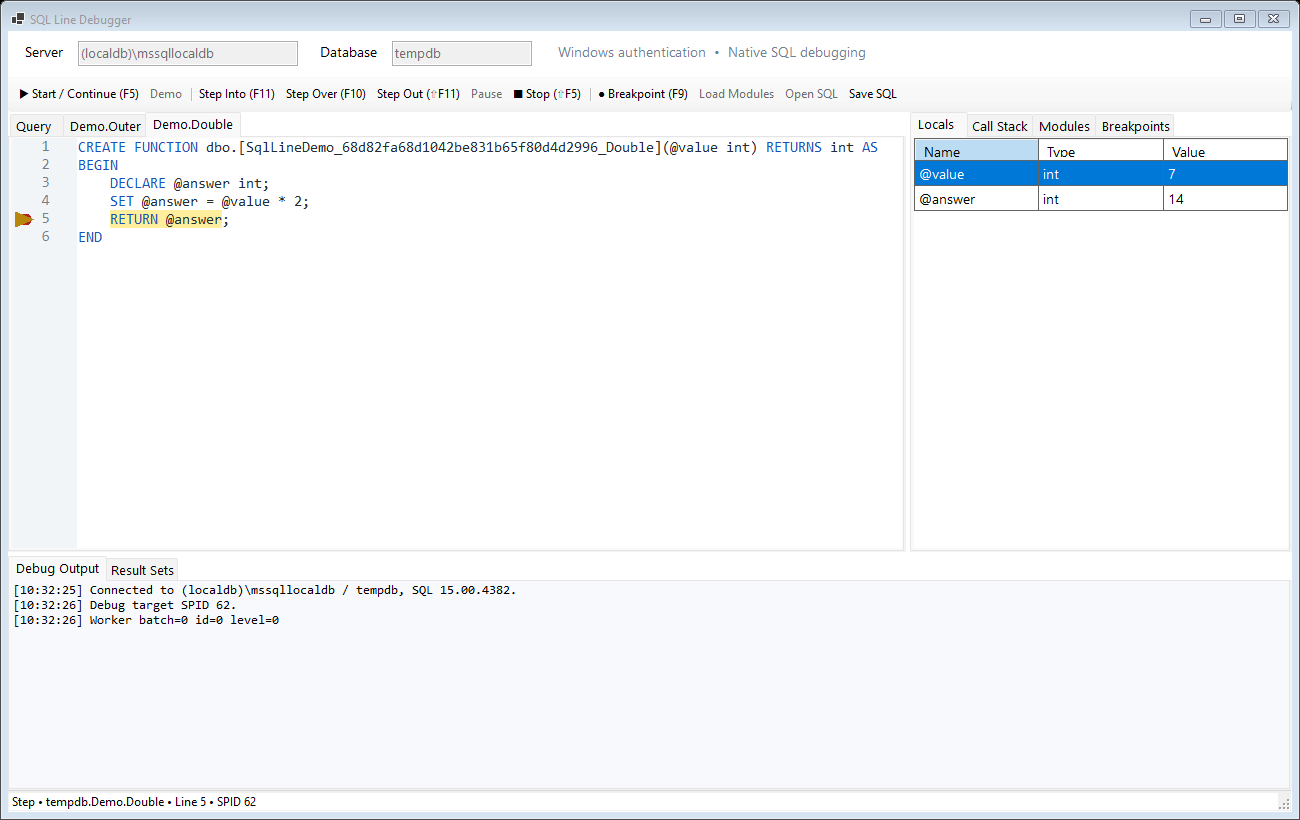
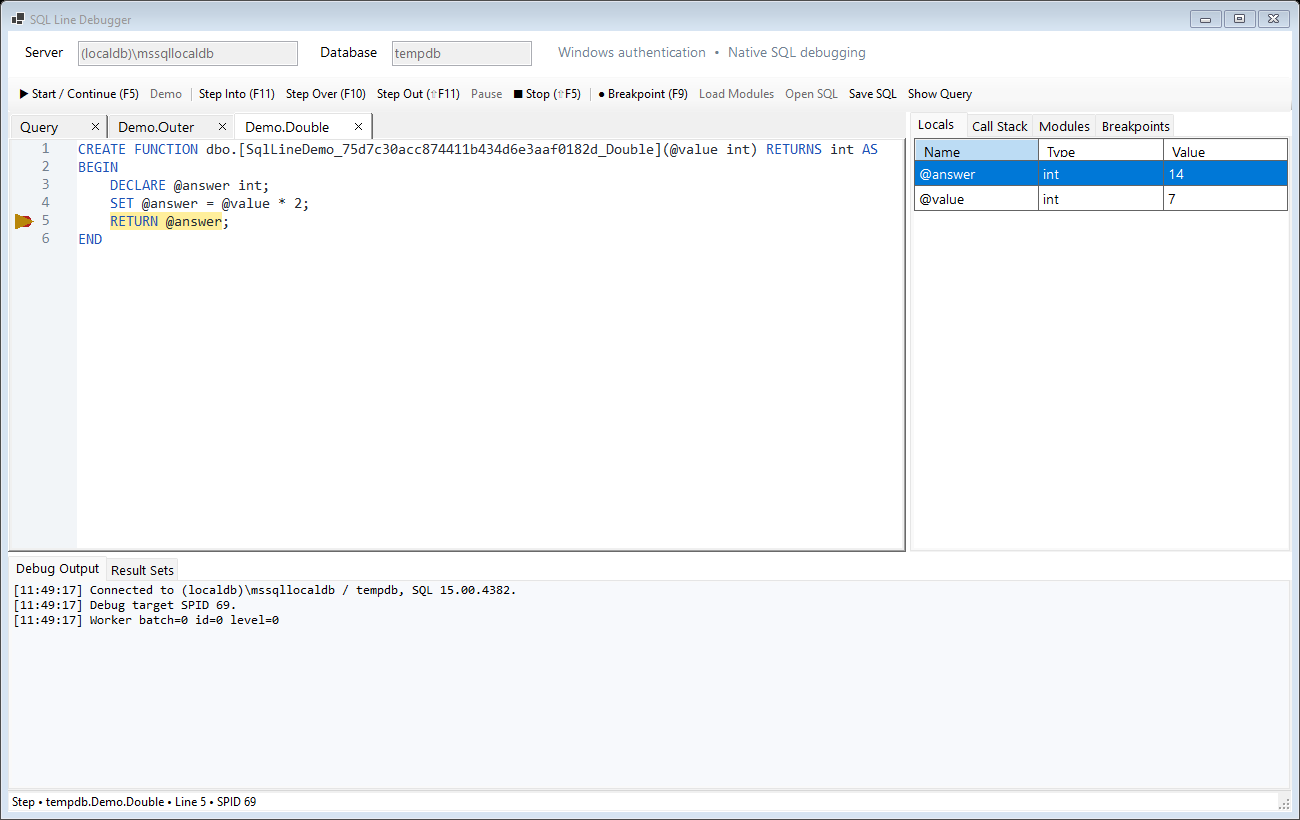
updates

diff --git a/src/SqlLineDebugger/MainForm.cs b/src/SqlLineDebugger/MainForm.cs
@@ -7,7 +7,7 @@ internal sealed class MainForm : Form
 {
     private readonly TextBox server = new() { Text = @"(localdb)\mssqllocaldb", Width = 220 };
     private readonly TextBox database = new() { Text = "tempdb", Width = 140 };
-    private readonly TabControl sourceTabs = new() { Dock = DockStyle.Fill };
+    private readonly ClosableTabControl sourceTabs = new() { Dock = DockStyle.Fill };
     private readonly TabControl bottomTabs = new() { Dock = DockStyle.Fill };
     private readonly TabControl resultTabs = new() { Dock = DockStyle.Fill };
     private readonly RichTextBox output = new() { Dock = DockStyle.Fill, ReadOnly = true, Font = new Font("Consolas", 10), BackColor = Color.FromArgb(247, 249, 252), BorderStyle = BorderStyle.None };
@@ -21,6 +21,7 @@ internal sealed class MainForm : Form
     private readonly Dictionary<string, SqlEditor> editors = new();
     private readonly SqlEditor query;
     private DebugSession? session;
+    private PauseSnapshot? currentPause;
     private bool closing;
     private bool loadingModules;
     private string? smokeDirectory;
@@ -51,6 +52,7 @@ internal sealed class MainForm : Form
         AddButton(ref loadButton, "Load Modules", async () => await LoadModules());
         AddButton(ref openButton, "Open SQL", OpenSql);
         var save = new ToolStripButton("Save SQL"); save.Click += (_, _) => SaveSql(); toolstrip.Items.Add(save);
+        var showQuery = new ToolStripButton("Show Query"); showQuery.Click += (_, _) => ShowQuery(); toolstrip.Items.Add(showQuery);
 
         var vertical = new SplitContainer { Dock = DockStyle.Fill, Orientation = Orientation.Horizontal, Height = 710, SplitterDistance = 430, Panel1MinSize = 180, Panel2MinSize = 160 };
         var horizontal = new SplitContainer { Dock = DockStyle.Fill, Width = 1260, SplitterDistance = 850, Panel1MinSize = 500, Panel2MinSize = 260 };
@@ -65,12 +67,15 @@ internal sealed class MainForm : Form
         toolstrip.Dock = DockStyle.Top;
         query = new SqlEditor(new("batch", "Query", "tempdb", "-- Enter a single batch, or click Demo.\nDECLARE @value int = 7;\nSET @value = @value * 2;\nPRINT N'Hello from SQL Server';\nSELECT @value AS Value;", Array.Empty<StatementSpan>()), breakpoints, true);
         AddEditor(query);
+        sourceTabs.CloseRequested += CloseSourceTab;
         modules.DoubleClick += (_, _) => { if (modules.SelectedItem is SourceDocument source) ShowSource(source); };
-        stack.DoubleClick += (_, _) => { if (stack.SelectedItem is FrameItem item) ShowSource(item.Frame.Source); };
+        stack.MouseDown += (_, e) => { if (e.Button == MouseButtons.Left) OpenStackFrame(stack.IndexFromPoint(e.Location)); };
+        stack.KeyDown += (_, e) => { if (e.KeyCode == Keys.Enter) { OpenStackFrame(stack.SelectedIndex); e.Handled = true; } };
         KeyPreview = true;
         KeyDown += async (_, e) =>
         {
-            if (e.KeyCode == Keys.F9) ActiveEditor?.ToggleAtCaret();
+            if (e.Control && e.KeyCode == Keys.W) { if (sourceTabs.SelectedTab is { } page) CloseSourceTab(page); }
+            else if (e.KeyCode == Keys.F9) ActiveEditor?.ToggleAtCaret();
             else if (e.KeyCode == Keys.F5 && e.Shift) Stop();
             else if (e.KeyCode == Keys.F5) { if (session?.IsRunning == true) session.Resume(DebugAction.Continue); else await Start(false); }
             else if (e.KeyCode == Keys.F10) session?.Resume(DebugAction.Over);
@@ -95,9 +100,29 @@ internal sealed class MainForm : Form
         editor.BreakpointsChanged += UpdateBreakpoints;
         sourceTabs.TabPages.Add(Page(editor.Source.DisplayName, editor));
     }
+    private void CloseSourceTab(TabPage page)
+    {
+        if (page.Controls.OfType<SqlEditor>().FirstOrDefault() is not { } editor) return;
+        editors.Remove(editor.Source.Key);
+        editor.BreakpointsChanged -= UpdateBreakpoints;
+        // Retain the editable batch even when its tab is closed.
+        if (editor == query) page.Controls.Remove(query);
+        sourceTabs.TabPages.Remove(page);
+        page.Dispose();
+    }
+    private void OpenStackFrame(int index)
+    {
+        if (index >= 0 && index < stack.Items.Count && stack.Items[index] is FrameItem item)
+            ShowSource(item.Frame.Source);
+    }
     private SqlEditor ShowSource(SourceDocument source)
     {
-        if (!editors.TryGetValue(source.Key, out var editor)) { editor = new SqlEditor(source, breakpoints); AddEditor(editor); }
+        if (!editors.TryGetValue(source.Key, out var editor))
+        {
+            editor = source.Key == "batch" ? query : new SqlEditor(source, breakpoints);
+            if (editor == query && editor.Source.Hash != source.Hash) editor.LoadSource(source);
+            AddEditor(editor);
+        }
         else if (editor.Source.Hash != source.Hash)
         {
             if (breakpoints.All.Any(b => b.SourceKey == source.Key)) Log($"Source changed: {source.Name}. Old breakpoints are unbound; reset them against the new source.");
@@ -105,6 +130,8 @@ internal sealed class MainForm : Form
         }
         else if (editor != query) editor.LoadSource(source);
         sourceTabs.SelectedTab = sourceTabs.TabPages.Cast<TabPage>().First(p => p.Controls.Contains(editor));
+        if (session?.IsPaused == true && currentPause is { } pause && pause.Source.Key == source.Key)
+            editor.Highlight(pause.Span);
         return editor;
     }
     private void UpdateBreakpoints()
@@ -130,6 +157,7 @@ internal sealed class MainForm : Form
     {
         if (session?.IsRunning == true || loadingModules) return;
         lastError = null;
+        currentPause = null;
         resultTabs.TabPages.Clear(); output.Clear(); locals.DataSource = null; stack.Items.Clear();
         query.RefreshQuery(); query.TextBox.ReadOnly = true;
         session?.Dispose();
@@ -141,7 +169,7 @@ internal sealed class MainForm : Form
             if (demo && source.Database == "tempdb" && source.Key != "batch" && !modules.Items.Cast<SourceDocument>().Any(s => s.Key == source.Key)) modules.Items.Add(source);
         });
         session.ResultSet += table => Dispatch(() => { var grid = Grid(); grid.DataSource = table; resultTabs.TabPages.Add(Page(table.TableName, grid)); });
-        session.Running += () => Dispatch(() => { status.Text = "Running…"; UpdateState(); });
+        session.Running += () => Dispatch(() => { currentPause = null; status.Text = "Running…"; UpdateState(); });
         session.Paused += snapshot => Dispatch(() =>
         {
             if (pendingStep != 0) { stepTimes.Add(Stopwatch.GetElapsedTime(pendingStep).TotalMilliseconds); pendingStep = 0; }
@@ -151,16 +179,29 @@ internal sealed class MainForm : Form
             DebugTrace.Write("UI clear highlights end");
             active.Highlight(snapshot.Span);
             DebugTrace.Write("UI show/highlight source end");
-            locals.DataSource = snapshot.Variables.Select(v => new { v.Name, v.Type, v.Value }).ToList();
+            locals.DataSource = snapshot.Variables.OrderBy(v => v.Name, StringComparer.OrdinalIgnoreCase)
+                .Select(v => new { v.Name, v.Type, v.Value }).ToList();
             stack.Items.Clear(); foreach (var frame in snapshot.Stack) stack.Items.Add(new FrameItem(frame));
             status.Text = $"{snapshot.Reason} • {snapshot.Source.Database}.{snapshot.Source.DisplayName} • Line {snapshot.Line} • SPID {snapshot.Spid}";
             UpdateState();
             DebugTrace.Write("UI pause display complete");
+            currentPause = snapshot;
             if (smokeDirectory != null)
             {
+                if (snapshot.Source.Name.EndsWith("_Outer", StringComparison.Ordinal) && snapshot.Line == 4)
+                {
+                    int caret = active.TextBox.SelectionStart;
+                    int nextLine = active.TextBox.GetFirstCharIndexFromLine(4);
+                    active.TextBox.Select(nextLine, 1);
+                    if (active.TextBox.SelectionBackColor != Color.White)
+                        throw new InvalidOperationException("DECLARE marker spills into the following line.");
+                    active.TextBox.Select(caret, 0);
+                    SavePreview(Path.Combine(smokeDirectory, "debugger-statement-marker.png"));
+                }
                 if (!smokeCaptured && snapshot.Variables.Any(v => v.Name == "@answer" && v.Value == "14"))
                 {
                     active.ToggleAtCaret(); UpdateBreakpoints();
+                    CheckTabNavigation(snapshot);
                     DebugTrace.Write("UI preview begin");
                     SavePreview(Path.Combine(smokeDirectory, "debugger-paused.png")); smokeCaptured = true;
                     DebugTrace.Write("UI preview end");
@@ -179,6 +220,7 @@ internal sealed class MainForm : Form
         catch (Exception ex) { lastError = ex; Log(ex.ToString()); status.Text = "Debugging failed — see Debug Output."; bottomTabs.SelectedIndex = 0; }
         finally
         {
+            currentPause = null;
             query.TextBox.ReadOnly = false;
             foreach (var editor in editors.Values) editor.ClearHighlight();
             locals.DataSource = null; stack.Items.Clear(); UpdateState();
@@ -203,8 +245,9 @@ internal sealed class MainForm : Form
     private void OpenSql()
     {
         using var dialog = new OpenFileDialog { Filter = "SQL scripts (*.sql)|*.sql|All files (*.*)|*.*" };
-        if (dialog.ShowDialog(this) == DialogResult.OK) { query.LoadSource(new("batch", "Query", database.Text, File.ReadAllText(dialog.FileName), Array.Empty<StatementSpan>())); sourceTabs.SelectedIndex = 0; }
+        if (dialog.ShowDialog(this) == DialogResult.OK) { query.LoadSource(new("batch", "Query", database.Text, File.ReadAllText(dialog.FileName), Array.Empty<StatementSpan>())); ShowSource(query.Source); }
     }
+    private void ShowQuery() => ShowSource(query.Source);
     private void SaveSql()
     {
         if (ActiveEditor is not { } editor) return;
@@ -216,6 +259,11 @@ internal sealed class MainForm : Form
     {
         smokeDirectory = directory;
         Directory.CreateDirectory(directory);
+        var queryText = query.TextBox.Text;
+        CloseSourceTab(sourceTabs.SelectedTab!);
+        if (editors.ContainsKey("batch") || query.IsDisposed) throw new InvalidOperationException("Closing Query did not retain its editor.");
+        ShowSource(query.Source);
+        if (ActiveEditor != query || query.TextBox.Text != queryText) throw new InvalidOperationException("Reopening Query lost its text.");
         await Start(true);
         if (lastError != null) throw lastError;
         if (!smokeCaptured || resultTabs.TabPages.Count != 2) throw new InvalidOperationException("UI smoke test failed to display the function pause or both result sets.");
@@ -223,8 +271,60 @@ internal sealed class MainForm : Form
             throw new InvalidOperationException("UI step latency regression (limit 2000 ms): " + string.Join(", ", stepTimes.Select(ms => ms.ToString("F1"))));
         SavePreview(Path.Combine(directory, "debugger-results.png"));
         File.WriteAllText(Path.Combine(directory, "ui-tests.log"), "PASS: Windows Forms created, nested function source highlighted, @answer=14 displayed, gutter breakpoint toggled, two result-set grids displayed.\n" +
+            "PASS: source tab close buttons, single-click call-stack reopening, repeated click on selected frame, preserved breakpoint and statement marker, Query text retained.\n" +
             "Step latencies (ms): " + string.Join(", ", stepTimes.Select(ms => ms.ToString("F1"))) + "\n" + output.Text);
         return 0;
+    }
+    private void CheckTabNavigation(PauseSnapshot snapshot)
+    {
+        // Exercise the real mouse handlers, including a second click on an
+        // already selected frame after closing its tab again.
+        var inspection = (TabControl)stack.Parent!.Parent!;
+        var previous = inspection.SelectedTab;
+        inspection.SelectedTab = (TabPage)stack.Parent;
+        int caller = snapshot.Stack.ToList().FindIndex(f => f.Source.Key != snapshot.Source.Key);
+        if (caller < 0) throw new InvalidOperationException("Missing caller frame for tab navigation test.");
+        CheckFrame(caller);
+        int current = snapshot.Stack.ToList().FindIndex(f => f.Source.Key == snapshot.Source.Key);
+        CheckFrame(current);
+        CheckFrame(current);
+        var editor = ActiveEditor!;
+        int position = editor.TextBox.SelectionStart;
+        editor.TextBox.Select(position, 1);
+        if (editor.TextBox.SelectionBackColor != Color.FromArgb(255, 239, 156))
+            throw new InvalidOperationException("Reopened paused frame lost its statement marker.");
+        editor.TextBox.Select(position, 0);
+        inspection.SelectedTab = previous;
+
+        void CheckFrame(int index)
+        {
+            var source = ((FrameItem)stack.Items[index]).Frame.Source;
+            var oldEditor = editors[source.Key];
+            int count = sourceTabs.TabCount;
+            var points = breakpoints.All.ToArray();
+            int tabIndex = sourceTabs.TabPages.Cast<TabPage>().ToList().FindIndex(p => p.Controls.Contains(oldEditor));
+            var close = sourceTabs.CloseBounds(tabIndex);
+            SendMouseClick(sourceTabs, new Point(close.Left + close.Width / 2, close.Top + close.Height / 2));
+            if (editors.ContainsKey(source.Key) || sourceTabs.TabCount != count - 1 || !oldEditor.IsDisposed)
+                throw new InvalidOperationException("Tab close button did not dispose its module editor.");
+            var row = stack.GetItemRectangle(index);
+            SendMouseClick(stack, new Point(row.Left + 10, row.Top + row.Height / 2));
+            if (ActiveEditor?.Source.Key != source.Key || sourceTabs.TabCount != count || !points.SequenceEqual(breakpoints.All))
+                throw new InvalidOperationException($"Call-stack click failed to reopen {source.Key} with its breakpoints: active={ActiveEditor?.Source.Key}, tabs={sourceTabs.TabCount}/{count}.");
+        }
+    }
+    private static void SendMouseClick(Control control, Point point)
+    {
+        var position = (IntPtr)((point.Y << 16) | (point.X & 0xffff));
+        SendMessage(control.Handle, 0x201, (IntPtr)1, position);
+        SendMessage(control.Handle, 0x202, IntPtr.Zero, position);
+    }
+    [System.Runtime.InteropServices.DllImport("user32.dll", EntryPoint = "SendMessageW")]
+    private static extern IntPtr SendMessage(IntPtr window, int message, IntPtr wParam, IntPtr lParam);
+    protected override void Dispose(bool disposing)
+    {
+        if (disposing) query?.Dispose();
+        base.Dispose(disposing);
     }
     private void SavePreview(string path)
     {

diff --git a/src/SqlLineDebugger/EditorScrollTests.cs b/src/SqlLineDebugger/EditorScrollTests.cs
@@ -53,11 +53,47 @@ internal static class EditorScrollTests
             Require(text.SelectionBackColor == Color.White, "Previous statement highlight remained");
             text.Select(text.GetFirstCharIndexFromLine(219), 1);
             Require(text.SelectionBackColor == Color.FromArgb(255, 239, 156), "Current statement highlight missing");
-            File.WriteAllText(path, "PASS: 240-line CRLF/Unicode source; unchanged source refresh preserves viewport and updates spans; five visible steps stay still; off-screen step scrolls into view; old highlight clears.\n");
+            TestHighlightBoundaries(window);
+            File.WriteAllText(path, "PASS: 240-line CRLF/Unicode source; unchanged source refresh preserves viewport and updates spans; five visible steps stay still; off-screen step scrolls into view; old highlight clears.\nPASS: LF/CRLF statement markers exclude following whitespace and indentation while preserving multiline content and final tokens.\n");
             return 0;
         }
         catch (Exception ex) { File.WriteAllText(path, ex.ToString()); return 1; }
     }
     private static void Require(bool condition, string message)
     { if (!condition) throw new InvalidOperationException(message); }
+    private static void TestHighlightBoundaries(Form window)
+    {
+        foreach (string newline in new[] { "\n", "\r\n" })
+        {
+            string raw = $"-- Unicode \u03A9 \U0001F6F0{newline}DECLARE @number int = 7;{newline}    {newline}\t  SET @number = 14;{newline}SELECT{newline}    @number AS Value;{newline}    ";
+            var source = new SourceDocument("marker-test", "Marker", "Test", raw, Array.Empty<StatementSpan>());
+            using var editor = new SqlEditor(source, new BreakpointStore());
+            window.Controls.Add(editor); editor.BringToFront(); Application.DoEvents();
+            var text = editor.TextBox;
+            void RequireColor(int index, Color color, string reason)
+            { text.Select(index, 1); Require(text.SelectionBackColor == color, reason); }
+            Color marker = Color.FromArgb(255, 239, 156);
+            int declaration = raw.IndexOf("DECLARE", StringComparison.Ordinal);
+            int nextStatement = raw.IndexOf("SET", StringComparison.Ordinal);
+            // SQL can include all whitespace preceding the next statement.
+            editor.Highlight(new(0, declaration * 2, (nextStatement - 1) * 2));
+            string display = SqlEditor.Display(raw);
+            int declarationEnd = display.IndexOf(';') + 1;
+            RequireColor(declarationEnd - 1, marker, "DECLARE final semicolon lost its highlight");
+            int nextLineStart = display.IndexOf('\n', declarationEnd) + 1;
+            RequireColor(nextLineStart, Color.White, "Marker includes the following blank line");
+            int setStart = display.IndexOf("SET", StringComparison.Ordinal);
+            for (int index = display.LastIndexOf('\n', setStart) + 1; index <= setStart; index++)
+                RequireColor(index, Color.White, "Marker includes the next statement's indentation or token");
+
+            int selectStart = raw.IndexOf("SELECT", StringComparison.Ordinal);
+            editor.Highlight(new(1, selectStart * 2, (raw.Length - 1) * 2));
+            int continuation = display.LastIndexOf("@number", StringComparison.Ordinal);
+            RequireColor(continuation - 1, marker, "Multiline statement indentation lost its highlight");
+            int finalToken = display.LastIndexOf(';');
+            RequireColor(finalToken, marker, "Multiline statement final token lost its highlight");
+            for (int index = finalToken + 2; index < display.Length; index++)
+                RequireColor(index, Color.White, "Marker includes whitespace after the final statement");
+        }
+    }
 }

diff --git a/src/SqlLineDebugger/ClosableTabControl.cs b/src/SqlLineDebugger/ClosableTabControl.cs
@@ -1,0 +1,47 @@
+namespace SqlLineDebugger;
+
+internal sealed class ClosableTabControl : TabControl
+{
+    public event Action<TabPage>? CloseRequested;
+
+    public ClosableTabControl()
+    {
+        DrawMode = TabDrawMode.OwnerDrawFixed;
+        Padding = new Point(28, 4);
+    }
+
+    internal Rectangle CloseBounds(int index)
+    {
+        var tab = GetTabRect(index);
+        int size = Math.Min(tab.Height - 4, (int)Math.Round(18 * DeviceDpi / 96.0));
+        return new Rectangle(tab.Right - size - 4, tab.Top + (tab.Height - size) / 2, size, size);
+    }
+
+    protected override void OnDrawItem(DrawItemEventArgs e)
+    {
+        var bounds = GetTabRect(e.Index);
+        var close = CloseBounds(e.Index);
+        using var background = new SolidBrush(e.Index == SelectedIndex ? SystemColors.Window : SystemColors.Control);
+        e.Graphics.FillRectangle(background, bounds);
+        var text = Rectangle.FromLTRB(bounds.Left + 6, bounds.Top, close.Left - 3, bounds.Bottom);
+        TextRenderer.DrawText(e.Graphics, TabPages[e.Index].Text, Font, text, SystemColors.ControlText,
+            TextFormatFlags.VerticalCenter | TextFormatFlags.EndEllipsis | TextFormatFlags.NoPrefix);
+        int inset = Math.Max(4, close.Width / 3);
+        using var pen = new Pen(SystemColors.ControlText, Math.Max(1, DeviceDpi / 96f));
+        e.Graphics.DrawLine(pen, close.Left + inset, close.Top + inset, close.Right - inset, close.Bottom - inset);
+        e.Graphics.DrawLine(pen, close.Left + inset, close.Bottom - inset, close.Right - inset, close.Top + inset);
+    }
+
+    protected override void OnMouseDown(MouseEventArgs e)
+    {
+        for (int i = 0; i < TabCount; i++)
+        {
+            if (e.Button == MouseButtons.Left && CloseBounds(i).Contains(e.Location))
+            {
+                CloseRequested?.Invoke(TabPages[i]);
+                return;
+            }
+        }
+        base.OnMouseDown(e);
+    }
+}

diff --git a/src/SqlLineDebugger/Program.cs b/src/SqlLineDebugger/Program.cs
@@ -34,11 +34,14 @@ internal static class Program
         {
             string directory = args.SkipWhile(a => a != "--output").Skip(1).FirstOrDefault() ?? "artifacts";
             form.Opacity = 0; form.ShowInTaskbar = false;
+            Exception? callbackError = null;
+            ThreadExceptionEventHandler errorHandler = (_, e) => { callbackError = e.Exception; form.Close(); };
+            Application.ThreadException += errorHandler;
             form.Shown += async (_, _) =>
             {
                 try { exitCode = await form.SmokeAsync(directory); }
-                catch (Exception ex) { Directory.CreateDirectory(directory); File.WriteAllText(Path.Combine(directory, "ui-tests.log"), ex.ToString()); exitCode = 1; }
-                finally { form.Close(); }
+                catch (Exception ex) { Directory.CreateDirectory(directory); File.WriteAllText(Path.Combine(directory, "ui-tests.log"), (callbackError ?? ex).ToString()); exitCode = 1; }
+                finally { Application.ThreadException -= errorHandler; form.Close(); }
             };
         }
         Application.Run(form);

diff --git a/src/SqlLineDebugger/SqlEditor.cs b/src/SqlLineDebugger/SqlEditor.cs
@@ -67,7 +67,9 @@ internal sealed class SqlEditor : UserControl
     {
         var range = Source.Range(span);
         int start = Display(Source.Text[..range.Start]).Length;
-        int length = Display(Source.Text.Substring(range.Start, range.Length)).Length;
+        // SQL spans may end after the next line's indentation. Trim only the
+        // display highlight; retain original server offsets for source mapping.
+        int length = Display(Source.Text.Substring(range.Start, range.Length).TrimEnd()).Length;
         UpdateFormatting(() =>
         {
             ClearPreviousHighlight();

diff --git a/README.md b/README.md
@@ -26,6 +26,8 @@ For your own code:
 
 Submit a single SQL batch; `GO` is a client batch separator and is not accepted. **Open SQL** loads a script and **Save SQL** saves the active source. Database module tabs are read-only.
 
+Close source tabs with their **×** button or **Ctrl+W**. Closing a tab preserves its breakpoints and Query edits. Single-click a **Call Stack** frame to open its source again; the paused frame also restores its statement marker. **Show Query** reopens your batch with its edits; **Open SQL** reopens Query when loading a script.
+
 | Action | Shortcut |
 | --- | --- |
 | Start / Continue | F5 |
@@ -34,6 +36,7 @@ Submit a single SQL batch; `GO` is a client batch separator and is not accepted.
 | Step Out | Shift+F11 |
 | Toggle breakpoint on current line | F9, or click the left gutter |
 | Stop / cancel execution | Shift+F5 |
+| Close active source tab | Ctrl+W |
 | Break at next statement boundary | Pause toolbar button |
 
 ## Source mapping
